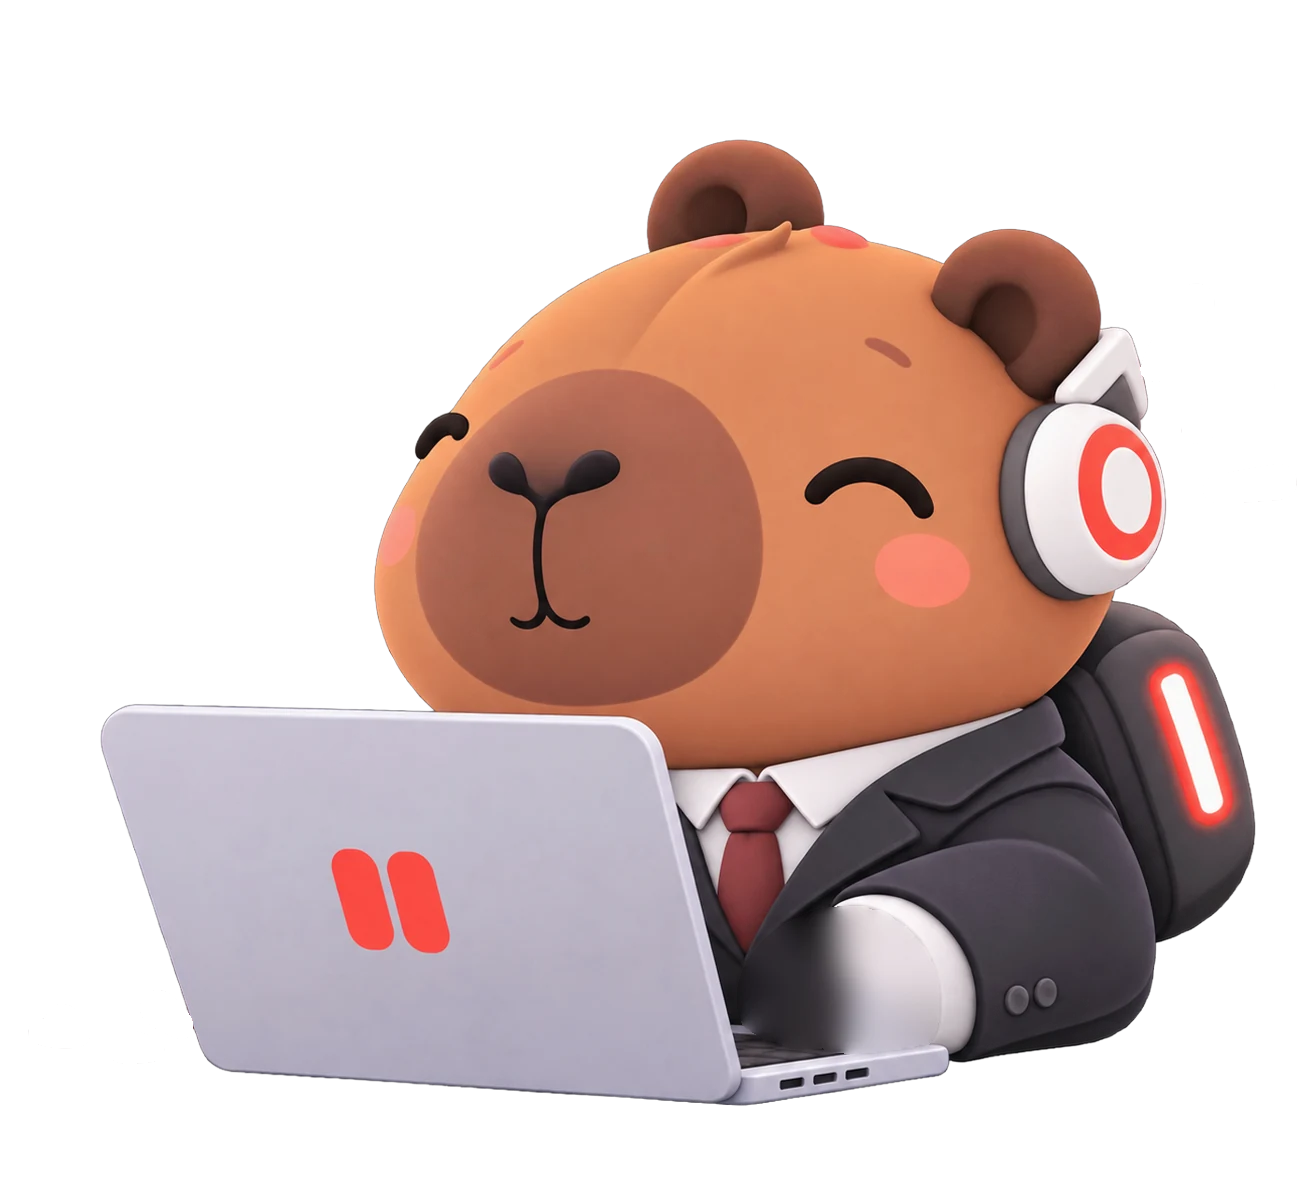
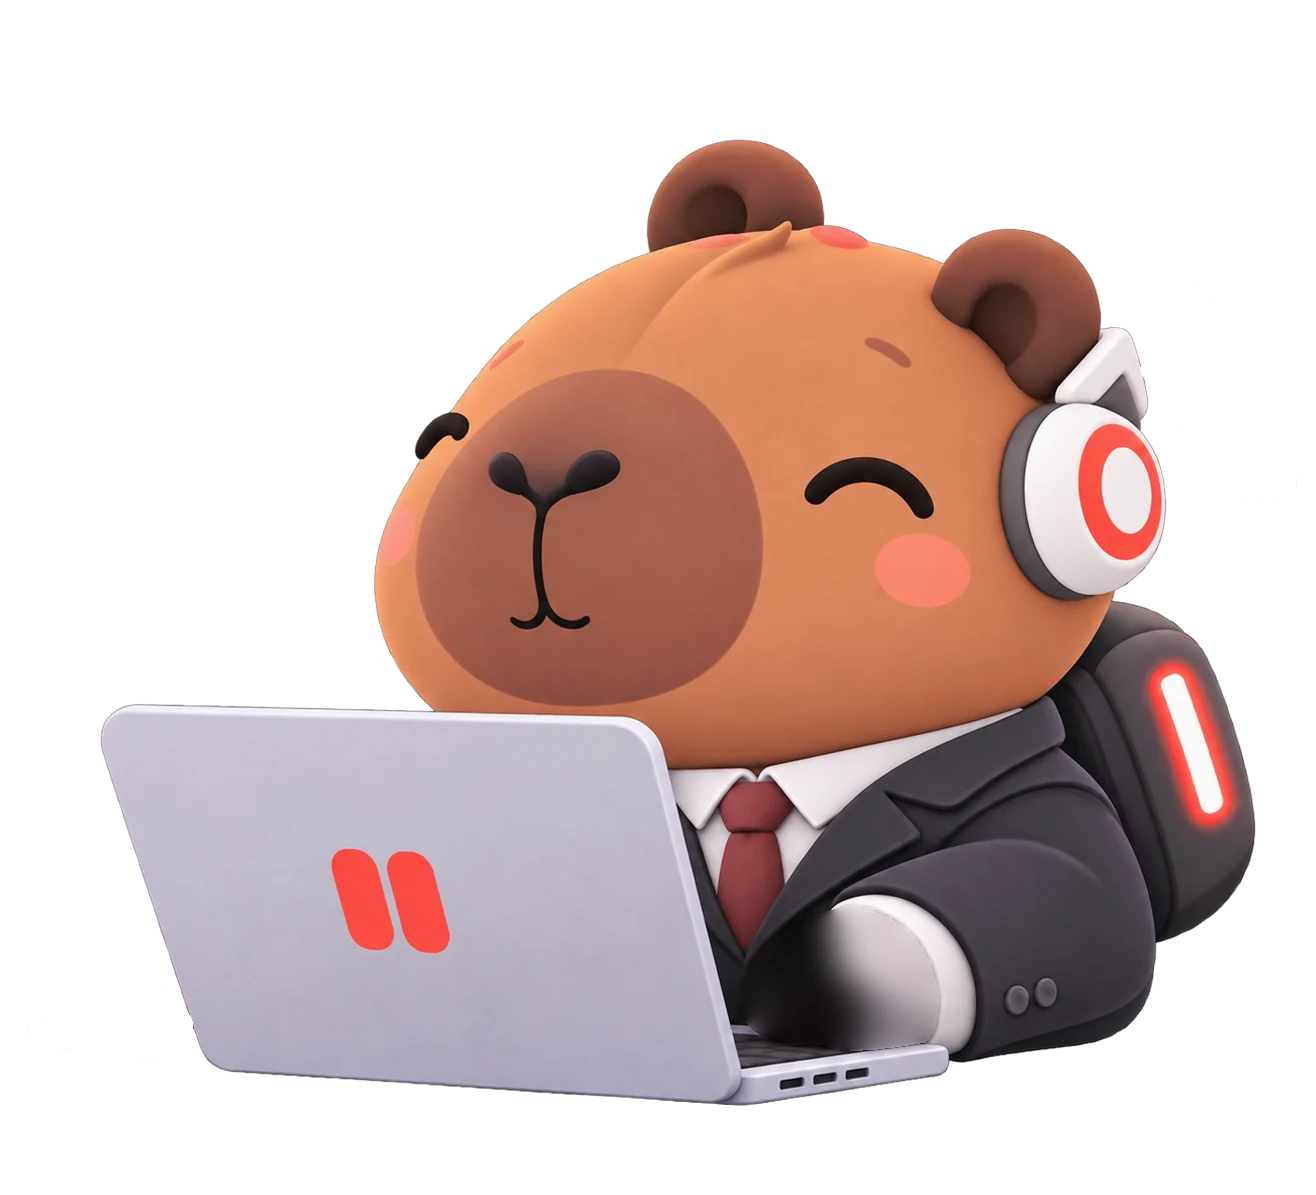
Keep the typing paws finger shadow and leave the keys behind

Changed region(s): [[0.5608, 0.7741, 0.7166, 0.8979]]

diff --git a/scripts/build_mascot_rigs.py b/scripts/build_mascot_rigs.py
@@ -350,7 +350,18 @@ def fur_paw_mask(img, seed, box):
         raise SystemExit(f'no fur found near {seed}; check the laptop painting')
     pick = labels[np.argmax(counts)]
     paw = ndimage.binary_fill_holes(ndimage.binary_closing(lab == pick, iterations=4))
-    return dilate(paw, 3) & region
+    # Grown a few pixels for the paw's soft edge, but never onto anything
+    # neutral grey or white: that rim was the keyboard and laptop surface,
+    # which then moved with the fingers.
+    # The fingers' dark contact shadow is warm (red well above blue) and
+    # belongs to the paw; the laptop, keys and shirt are cool or neutral.
+    # Leaving the shadow behind left a sliver of finger on the keys when the
+    # paw lifted; taking the keys moved a strip of laptop with it.
+    cool = (b >= r - 8) | ((np.abs(r - g) < 22) & (np.abs(g - b) < 22) & (r - b < 8))
+    warm_shadow = (a > 160) & (r > g) & (r - b > 12) & (r < 140)
+    paw = paw | (warm_shadow & dilate(paw, 8) & region)
+    paw = (paw | (dilate(paw, 3) & ~cool)) & region
+    return paw & ~cool
 
 
 def build_laptop():
